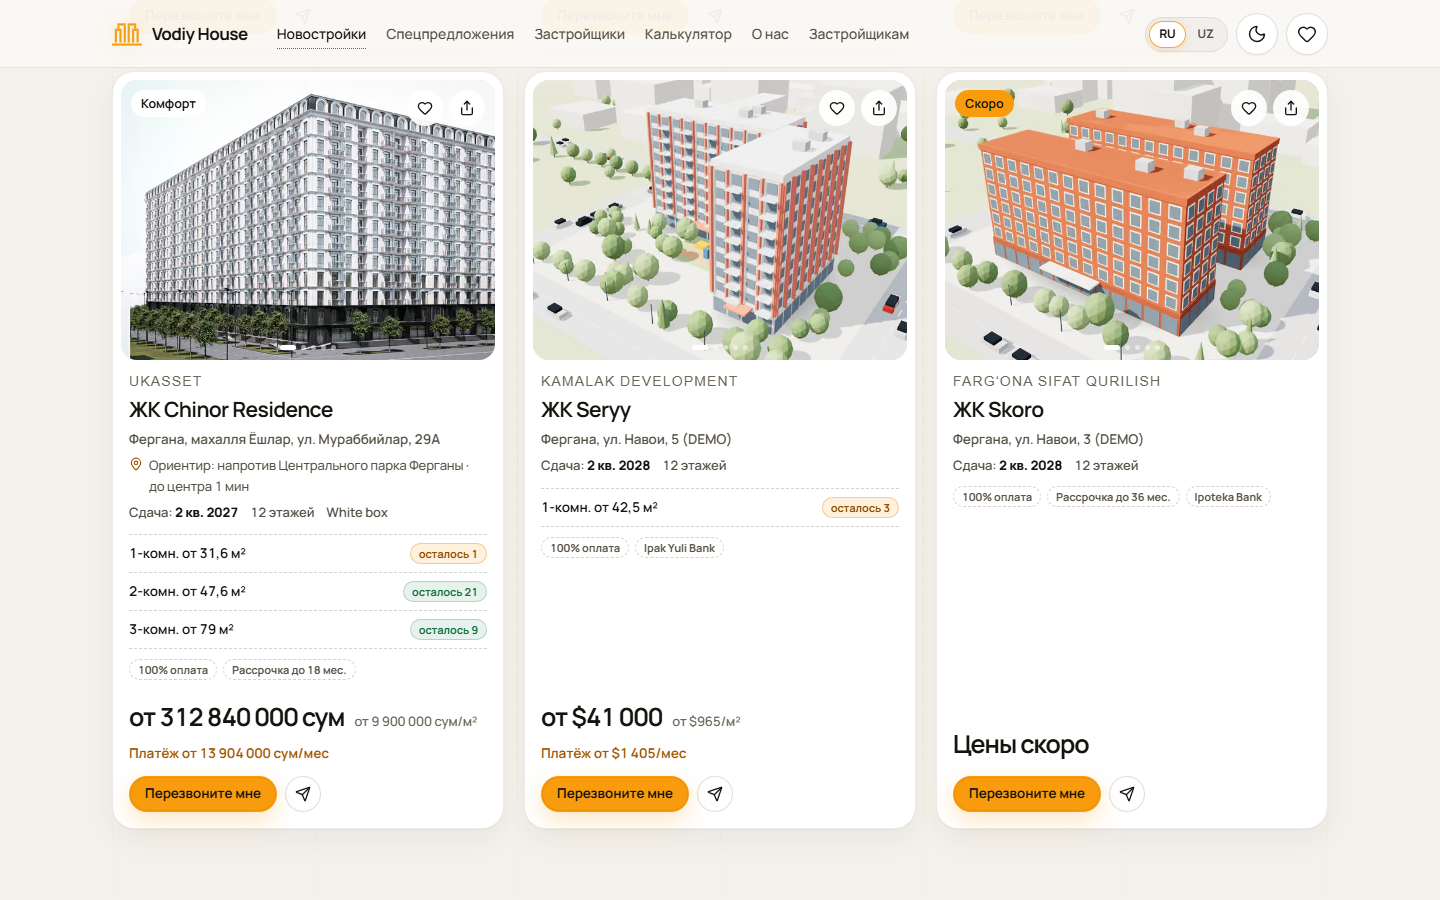
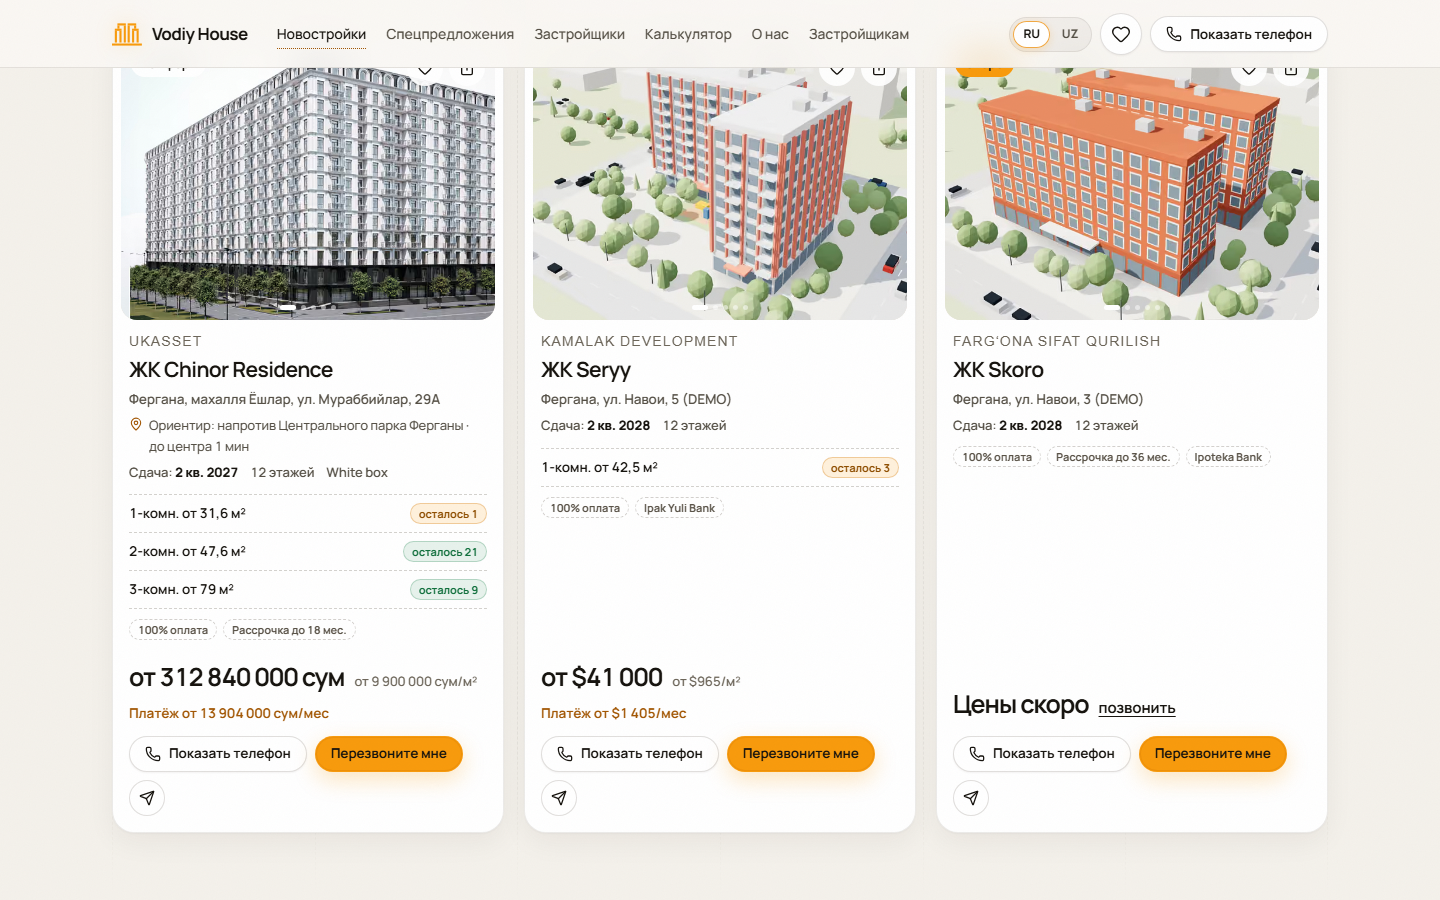
правило публикации v2: общий номер Vodiy House на «Скоро», карточке и сером плане
Номер записан в тестовое облако (слово исполнителя 02.11). Спека publication-rule сверяет его на странице «Скоро», в карточке каталога и в строке серой квартиры; номер под планом на телефоне больше не рвётся. Снимки docs/design/publication-v2 обновлены. e2e 390 + 1440: publication-rule 21 ✓, picker ✓; npm test 1753 ✓

diff --git a/tests/e2e/publication-rule.spec.ts b/tests/e2e/publication-rule.spec.ts
@@ -57,6 +57,10 @@ test.describe("сайт · правило публикации", () => {
     await expect(card.locator(".catalog-card__soon")).toHaveText("Скоро");
     await expect(card).toContainText("Цены скоро");
     await expect(card).not.toContainText(/от \$\d/);
+    const phone = await sitePhone();
+    if (phone) {
+      expect((await card.locator(".catalog-card__soon-call").getAttribute("href"))?.replace(/\D/g, "")).toBe(phone);
+    }
     await card.scrollIntoViewIfNeeded();
     await shot(page, "catalog-soon");
 
@@ -141,8 +145,15 @@ test.describe("сайт · правило публикации", () => {
     await expect(pending.first().locator(".complex-picker__unit-price")).toHaveCount(0);
     await expect(pending.first().locator(".complex-picker__unit-rooms")).toHaveCount(0);
     await pending.first().click();
-    await expect(section.locator(".complex-picker__note")).toContainText("Цена уточняется — позвоните в Vodiy House");
+    const note = section.locator(".complex-picker__note");
+    await expect(note).toContainText("Цена уточняется — позвоните в Vodiy House");
+    const phone = await sitePhone();
+    if (phone) {
+      expect((await note.locator('a[href^="tel:"]').getAttribute("href"))?.replace(/\D/g, "")).toBe(phone);
+    }
     await expect(section.locator(".complex-picker__flat")).toHaveCount(0);
+    // На снимке — строка с номером под планом.
+    if (process.env.PUBLICATION_SHOTS) await note.scrollIntoViewIfNeeded();
     await shot(page, "facade-gray-units");
     // Полная планировка рядом выбирается как обычно, продано — как раньше.
     await expect(section.locator(".complex-picker__unit--free").first()).toBeVisible();

diff --git a/components/ComplexPicker/ComplexPicker.css b/components/ComplexPicker/ComplexPicker.css
@@ -673,6 +673,11 @@ a.complex-picker__tag {
   font-weight: 600;
 }
 
+/* Номер Vodiy House в строке неполной квартиры не рвётся на телефоне. */
+.complex-picker__note a {
+  white-space: nowrap;
+}
+
 .complex-picker__tap {
   display: flex;
   align-items: center;

diff --git a/PROGRESS.md b/PROGRESS.md
@@ -8,7 +8,8 @@
 - **01.11 — правило публикации v2** (`docs/publication-rule.md`, заменяет правило 30.10). Определения и решения — `docs/progress/publication-v2.md`. Блоки по порядку, после каждого — зелёные проверки и коммит «правило публикации v2: блок X — …»:
   - A база ✓ · B сайт ✓ · C кабинет ✓ · D материалы ✓ — миграции в тестовом облаке, DEMO и импорт обновлены (слово исполнителя 01.11). npm test 1752 ✓; спеки блоков на 1440 ✓.
   - E документы и тесты ✓ — памятка, чек-лист передачи, спека `publication-rule`, снимки `docs/design/publication-v2`. Ревью B–D проведено, находки исправлены. Правило публикации v2 готово, в origin/main с 22:17 (8f11c1b); тема — dcdb570, запушена. Полный e2e на dcdb570: 729 ✓, 70 пропущено, 2 флака — журнал в `docs/progress/publication-v2.md`.
-  - Открыто: общий номер Vodiy House в тестовом облаке не задан, показ номера на «Скоро» и сером плане в браузере не проверен; реклама по фильтру ведёт в каталог, где есть «Скоро»; текст meta у «Скоро» обещает планировки.
+  - Общий номер Vodiy House задан в тестовом облаке 02.11, показ на «Скоро», карточке и сером плане проверен спекой, снимки обновлены.
+  - Открыто: реклама по фильтру ведёт в каталог, где есть «Скоро»; текст meta у «Скоро» обещает планировки.
   - Проблемы: Shodlik покажет 3 квартиры из 15 (нет чертежей, запросить у MYB). На ноутбуке 01.11 сбоят DNS и связь с Supabase: команды — через запасной DNS процесса. Файлы старых DEMO из бакета удалены (235, слово исполнителя 01.11); остались 11 файлов от спеки `e2e-fasad-*`. Вопросы: нет.
 - **31.10 — реальные данные из чек-листа заказчика на сайте:** выгрузка — `docs/zhk/<slug>/checklist.md`. 01.11 решение исполнителя: `npm run content:import` размещает только Shodlik (15 свободных), Sayilgoh (106), Chinor (31) и MYB, UKASSET; остальные клиент заполнит после сдачи, Garant снят, в тестовом облаке 7 ЖК — черновики, на сайте не видны. Таблица, решения, вопросы — `docs/zhk/README.md`. В каталоге рядом DEMO, «Shodlik» два раза — до `demo:remove`.
 - Первый экран v3, экран загрузки, анимации страниц, материалы 29.10 — `docs/progress/phase-6.md`.

diff --git a/docs/progress/publication-v2.md b/docs/progress/publication-v2.md
@@ -43,3 +43,4 @@
 - 01.11, после блока E: 7d78086…8f11c1b уже в origin/main (пуш 22:17 с этой машины). `publication-rule` 390 + 1440: 21 ✓, но проверка номера пропущена: в тестовом облаке `site.contacts.phone` пуст, запись не менялась с 28.10. Показ номера не проверен, снимки не обновлены.
 - 01.11, полный e2e 390 + 1440 на dcdb570 (тема закоммичена), 2 воркера, запасной DNS: 729 ✓, 70 пропущено, 2 флака на 1440 (admin К1.2 «карточка не мигает», motion-theme «/admin/vhod: без подсказки»: режим не успел стать full, повтор ✓). leads, events-лента и showcase в этот раз ✓.
 - 01.11, бакет (слово исполнителя): удалено 235 файлов старых DEMO из 15 папок `media`, у которых нет ЖК в базе и ссылок в таблицах. 209 файлов совпали по md5 с нынешними DEMO, 26 — чертежи мокапа 1000×760 от сида 29.10, просмотрены глазами. В заметке было 143: 123 из удалённых файлов загружены 01.11, 112 — 29.10, откуда разница, не выяснял. Оставлено 11 файлов от `e2e-fasad-*` (28.10): это не DEMO. Осталось 250 файлов, 83,1 МБ.
+- 02.11: общий номер Vodiy House (+998 78 113 73 72, слово исполнителя) записан в `site.contacts.phone` тестового облака, прочие поля не тронуты. Спека проверяет номер на странице «Скоро», в карточке каталога («позвонить») и в строке серой квартиры на плане этажа; 390 + 1440: 21 ✓. Номер под планом на 390 рвался посередине — ссылка теперь без переноса. Снимки `docs/design/publication-v2` обновлены. На тестовом деплое номер появится после нового деплоя: контакты там в кэше, а запись шла мимо кабинета.
